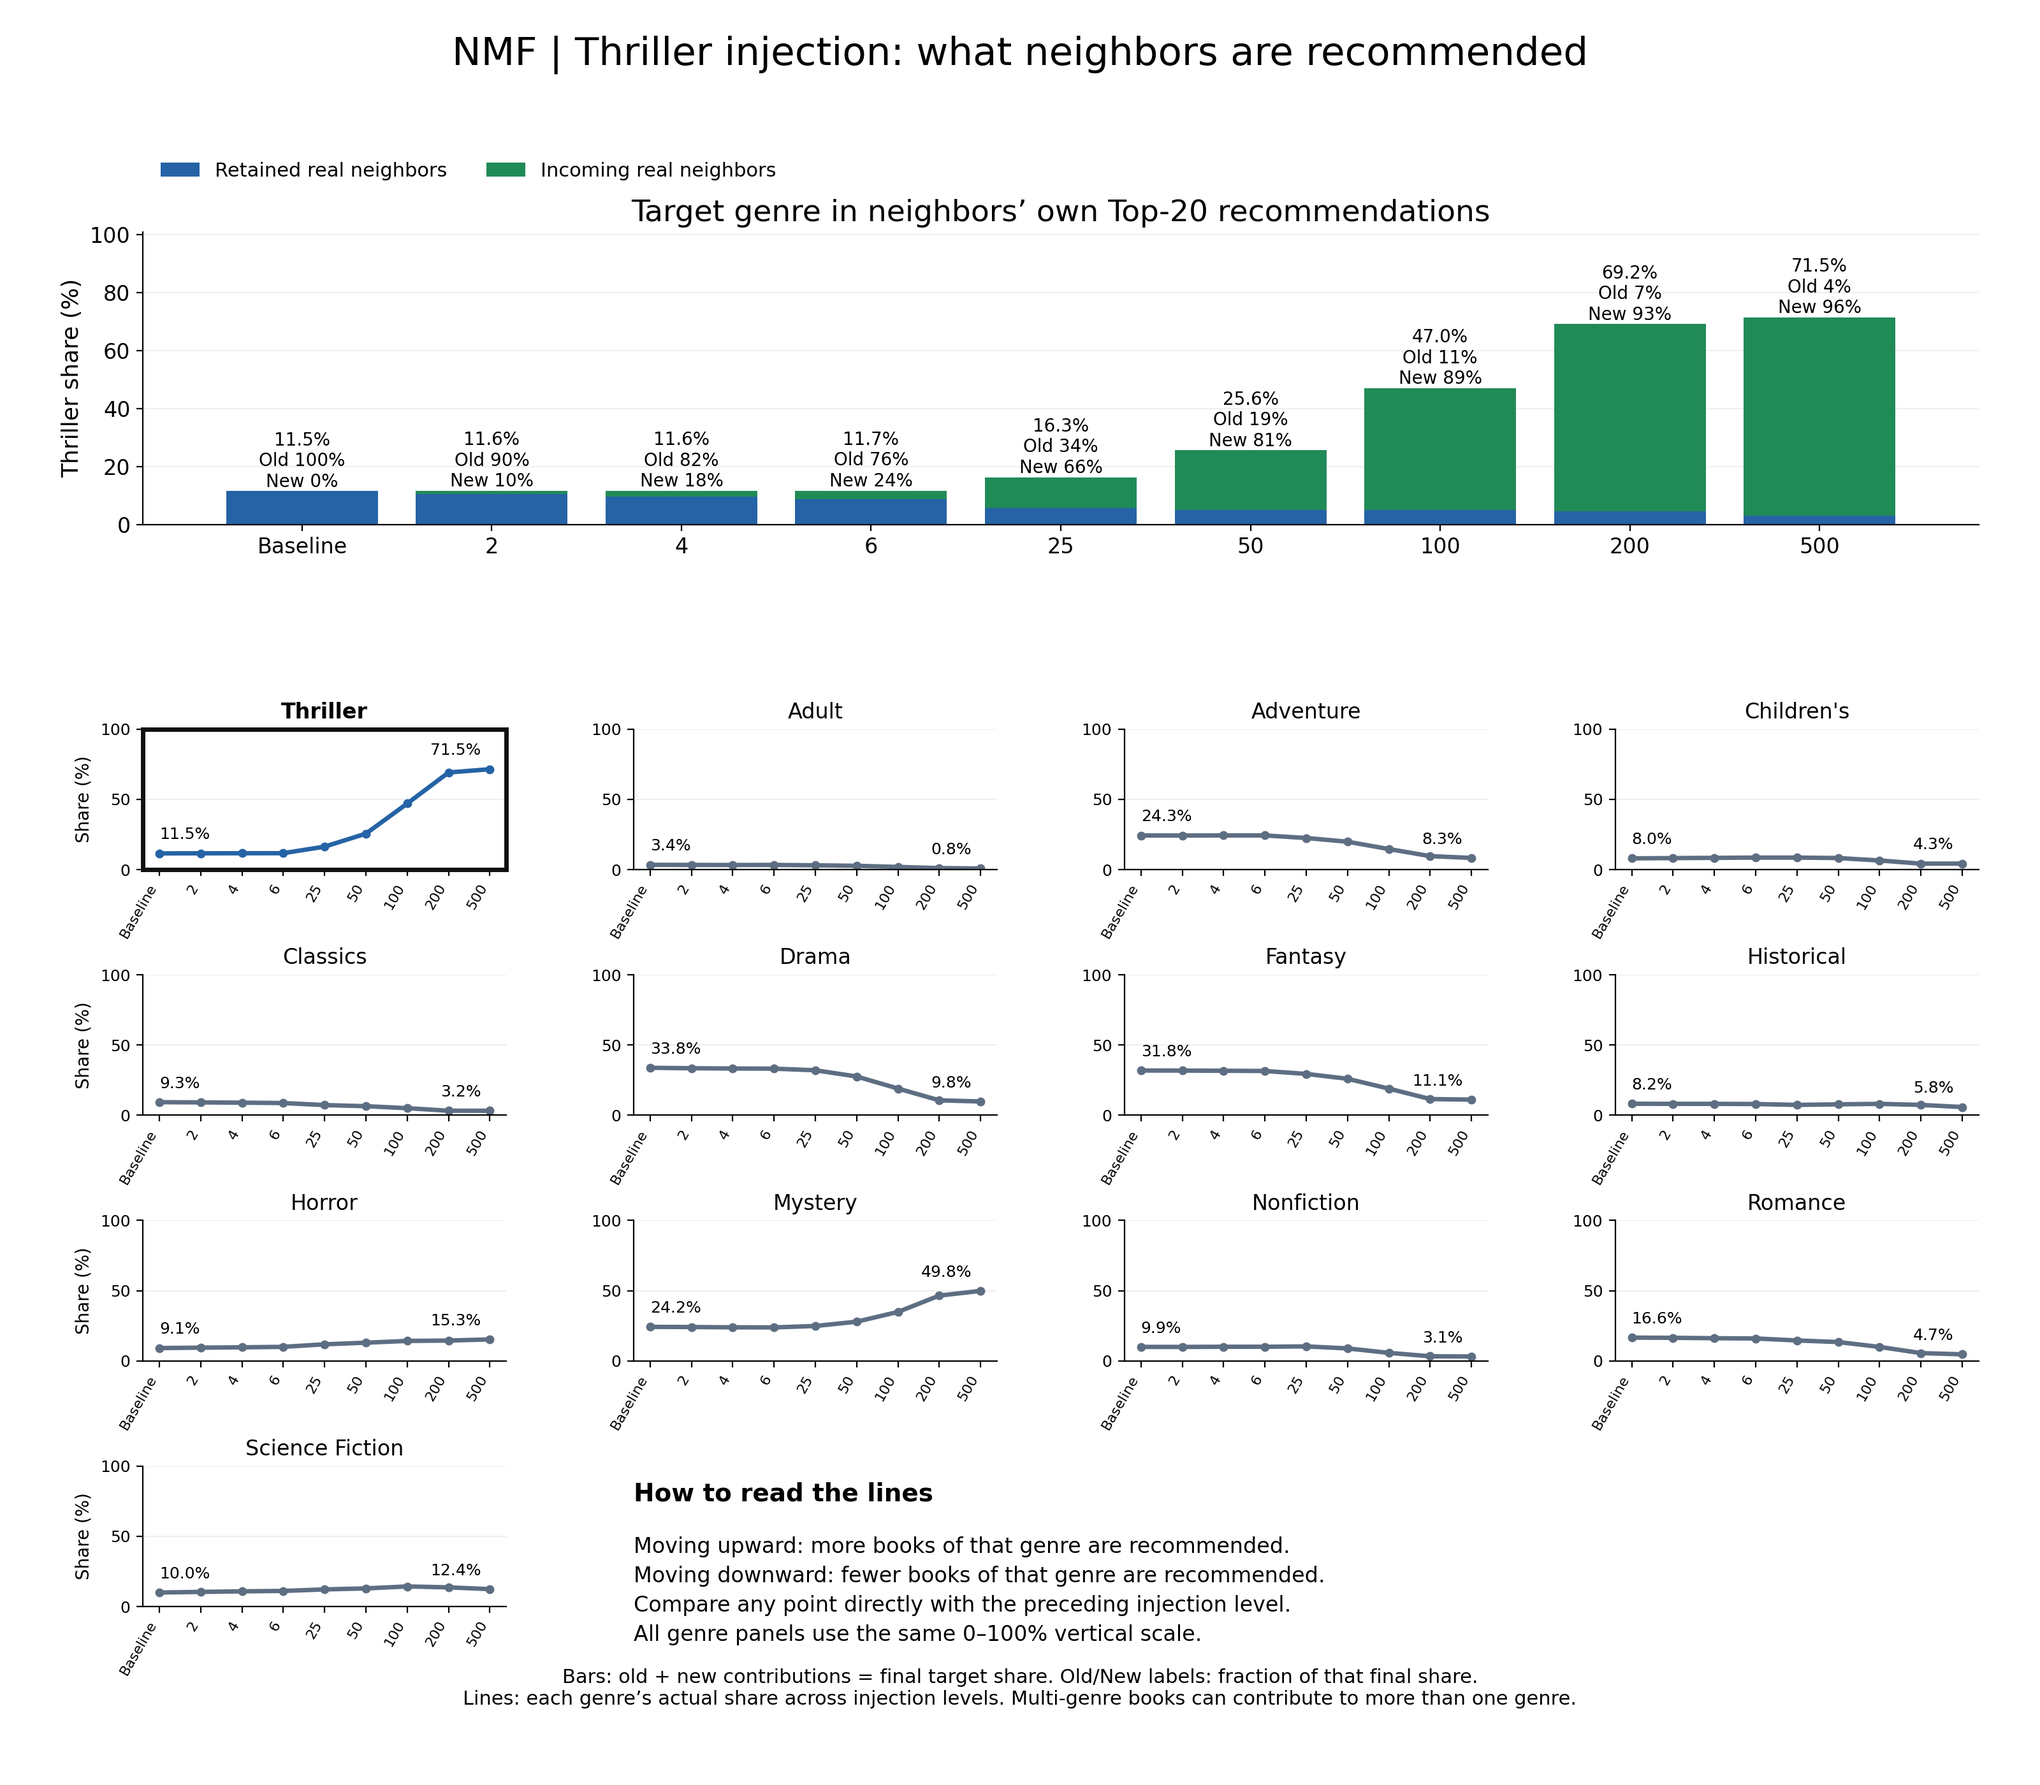
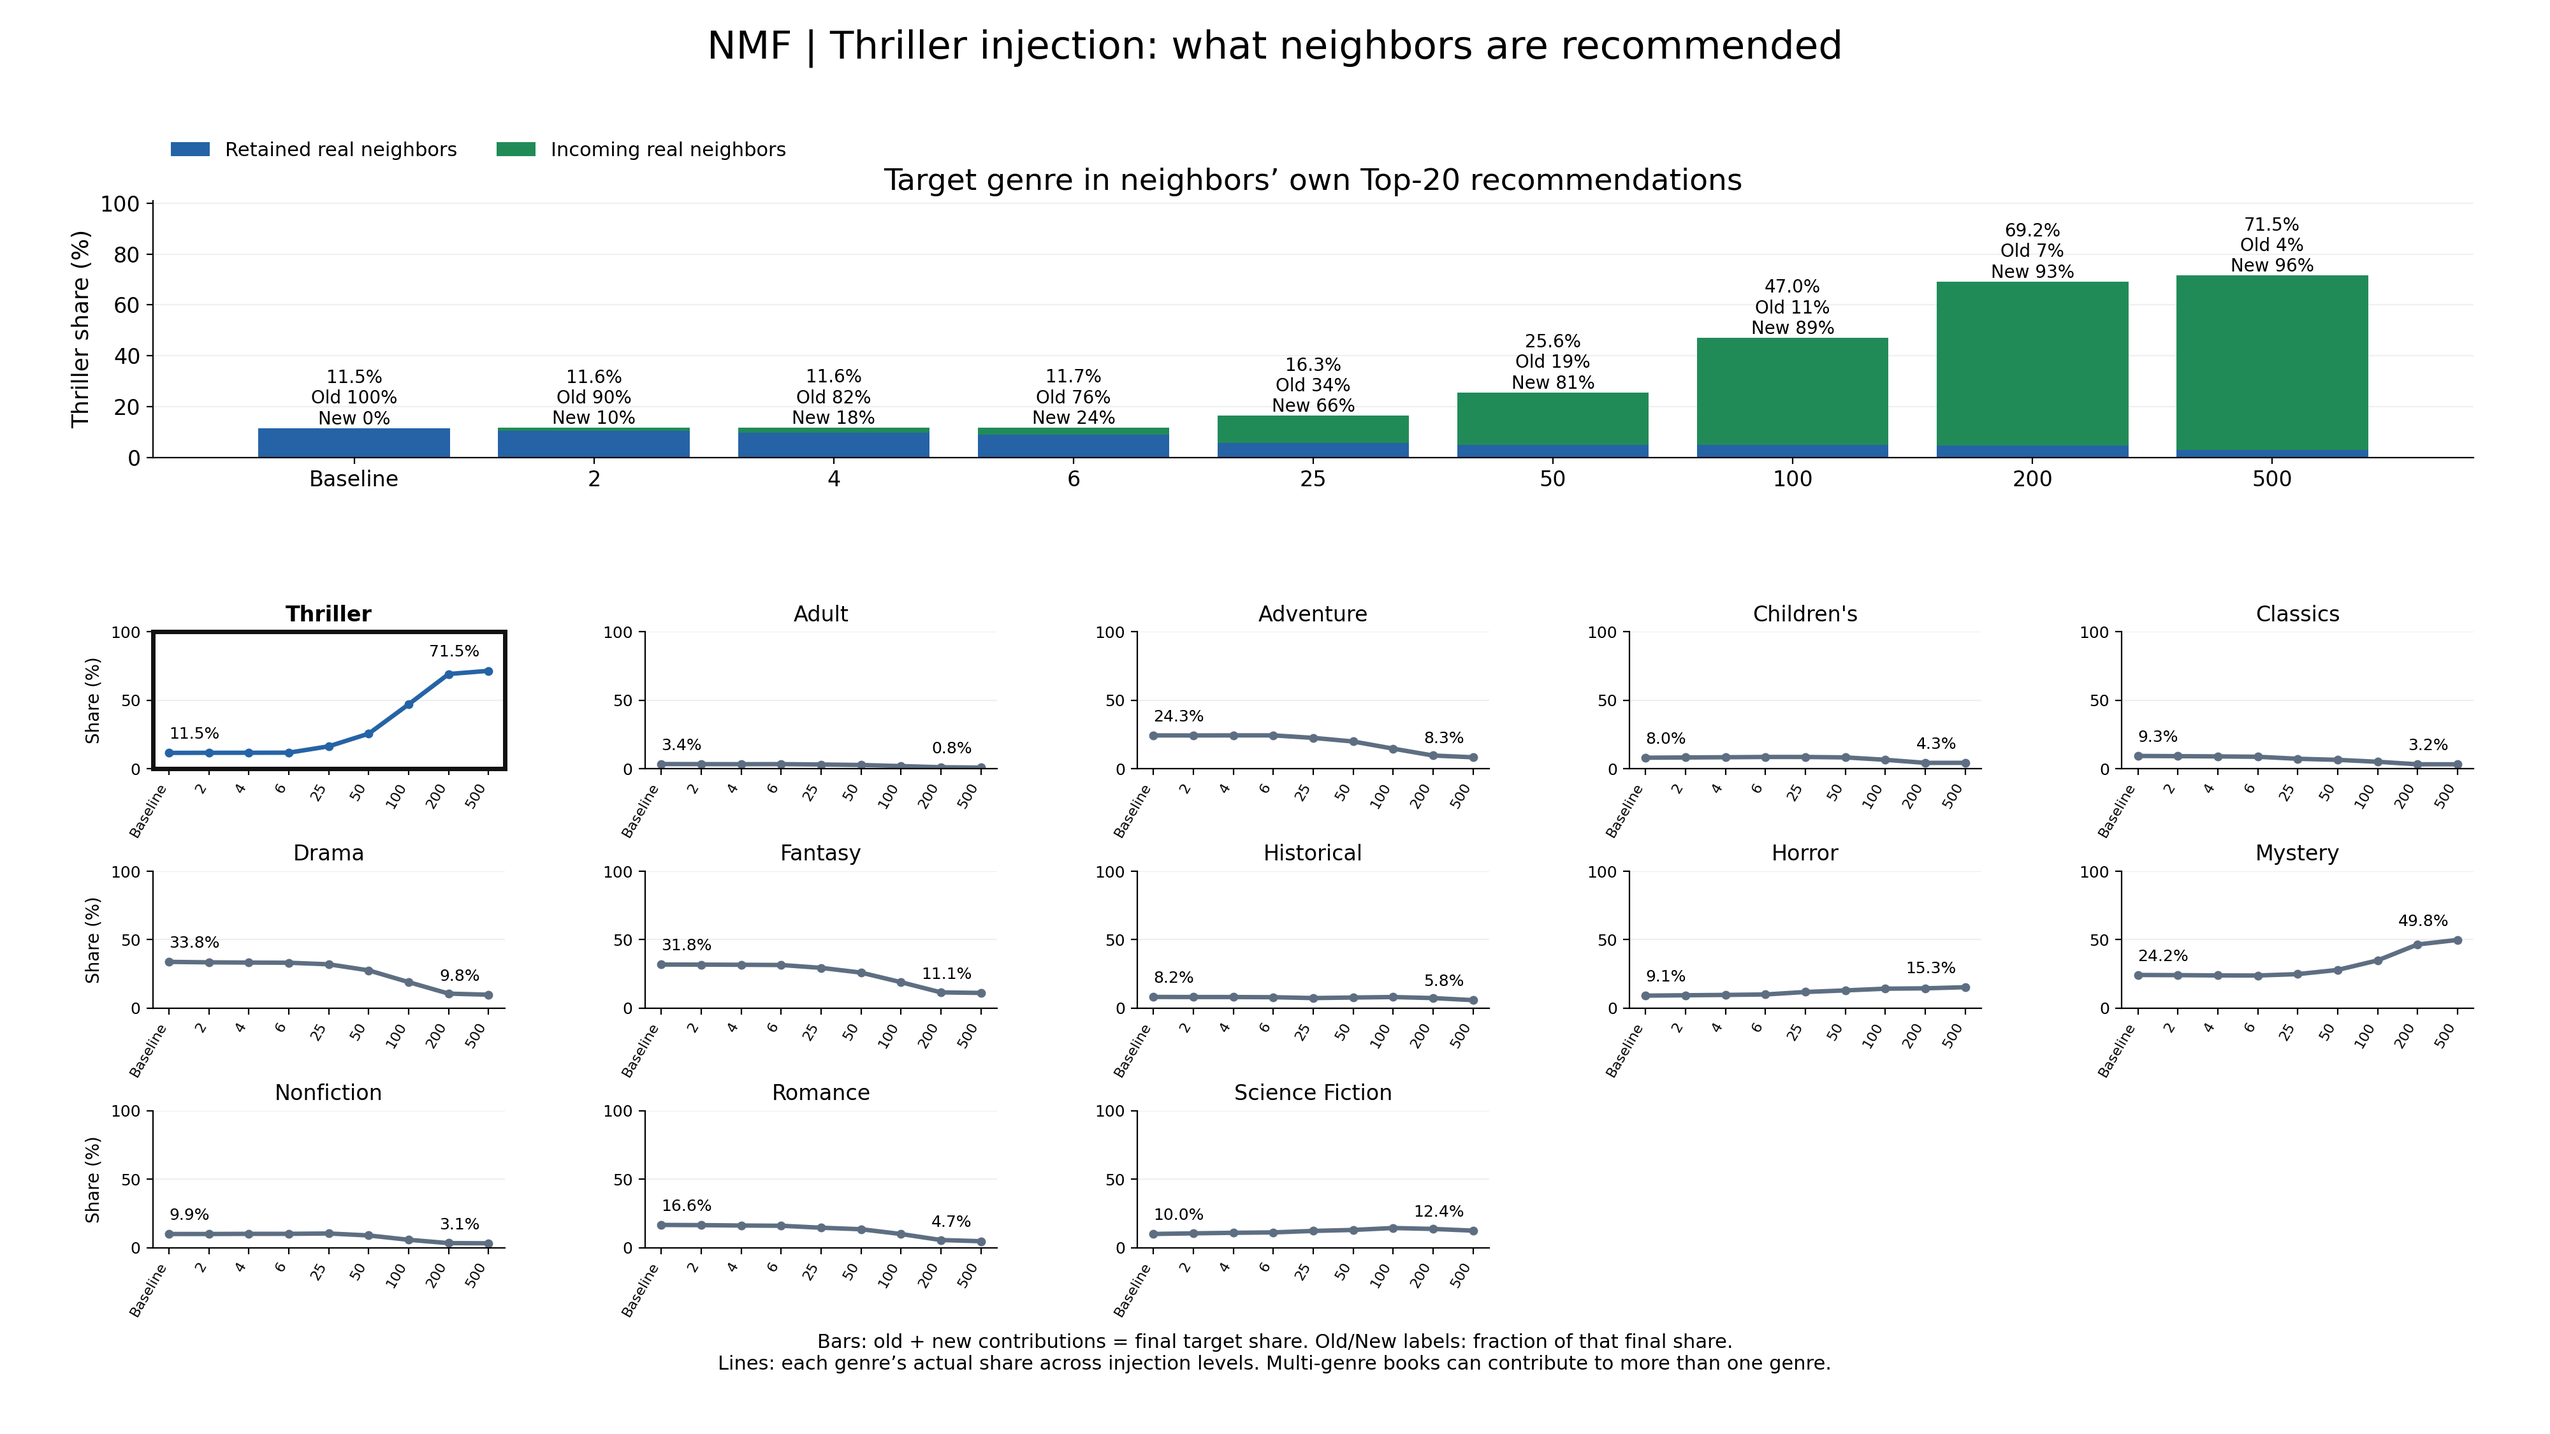
Create separate widescreen Thriller figures without reading guide

diff --git a/Book/current/PerturbRec/svd_nmf/layer2/notebook/build_final_layer2_figures.py b/Book/current/PerturbRec/svd_nmf/layer2/notebook/build_final_layer2_figures.py
@@ -7,7 +7,7 @@ matplotlib.use('Agg')
 import matplotlib.pyplot as plt
 from matplotlib.patches import Rectangle
 
-p=argparse.ArgumentParser();p.add_argument('--root',type=Path,required=True);a=p.parse_args()
+p=argparse.ArgumentParser();p.add_argument('--root',type=Path,required=True);p.add_argument('--genres',nargs='+',default=['Drama','Thriller']);a=p.parse_args()
 r=a.root
 identity=pd.read_csv(r/'tables/controlled/genre_summary.csv')
 taste=pd.read_csv(r/'tables/neighborhood_taste/genre_table_old_new.csv')
@@ -20,7 +20,7 @@ color_limit=max(1.0,float(np.ceil(color_limit/5)*5))
 blue='#2563A6';green='#218B58';orange='#D97732'
 plt.rcParams.update({'font.family':'DejaVu Sans','font.size':12,'axes.titlesize':17,'axes.labelsize':13,'savefig.dpi':200,'axes.spines.top':False,'axes.spines.right':False})
 for model in ['nmf','svd']:
- for target in ['Drama','Thriller']:
+ for target in a.genres:
   out=r/'result/final_results'/model.upper()/target;out.mkdir(parents=True,exist_ok=True)
   d=identity[(identity.model==model)&(identity.injected_genre==target)&(identity.metric=='cosine')&(identity.genre==target)&(identity.n_fake<=500)].sort_values('n_fake')
   doses=[0]+d.n_fake.astype(int).tolist();turn=np.r_[0,d.mean_turnover.to_numpy()]*100
@@ -40,7 +40,7 @@ for model in ['nmf','svd']:
   z=t[t.genre==target].set_index('n_fake').loc[doses]
   assert np.allclose(z.old_contribution_pp+z.new_contribution_pp,z.total_percent)
   assert np.allclose(z.neighbor_turnover_percent.to_numpy(),turn,atol=.01)
-  fig=plt.figure(figsize=(16,14));gs=fig.add_gridspec(2,1,height_ratios=[1,3],hspace=.35)
+  fig=plt.figure(figsize=(20,11.25));gs=fig.add_gridspec(2,1,height_ratios=[1,2.4],hspace=.4)
   ax=fig.add_subplot(gs[0]);old=z.old_contribution_pp.to_numpy();new=z.new_contribution_pp.to_numpy();total=z.total_percent.to_numpy()
   ax.bar(x,old,color=blue,label='Retained real neighbors');ax.bar(x,new,bottom=old,color=green,label='Incoming real neighbors')
   for xx,y,o,n in zip(x,total,z.old_share_of_total_percent,z.new_share_of_total_percent):
@@ -48,26 +48,23 @@ for model in ['nmf','svd']:
   ax.set_ylim(0,min(115,max(total)*1.3+8));ax.set_xticks(x,labels);ax.set_ylabel(f'{target} share (%)');ax.set_title('Target genre in neighbors’ own Top-20 recommendations');ax.legend(loc='upper left',bbox_to_anchor=(0,1.3),ncol=2,frameon=False,fontsize=11);ax.grid(axis='y',alpha=.18);ax.set_axisbelow(True)
   matrix=t.pivot(index='genre',columns='n_fake',values='total_percent').loc[:,doses]
   order=[target]+[g for g in matrix.index if g!=target];matrix=matrix.loc[order]
-  mini=gs[1].subgridspec(4,4,hspace=.75,wspace=.35)
+  mini=gs[1].subgridspec(3,5,hspace=.75,wspace=.4)
   for k,g in enumerate(order):
-   ax2=fig.add_subplot(mini[k//4,k%4]);v=matrix.loc[g].to_numpy()
+   ax2=fig.add_subplot(mini[k//5,k%5]);v=matrix.loc[g].to_numpy()
    # Equal axes across genres/models; dose levels are categorical and explicitly labeled.
    ax2.plot(x,v,color=blue if g==target else '#5E6E82',linewidth=2.5,marker='o',markersize=4)
    ax2.set_title(g,fontweight='bold' if g==target else 'normal',fontsize=12)
    ax2.set_xticks(x,labels,rotation=60,ha='right',fontsize=8)
    ax2.set_ylim(0,100);ax2.set_yticks([0,50,100]);ax2.tick_params(axis='y',labelsize=9)
    ax2.grid(axis='y',alpha=.2);ax2.set_axisbelow(True)
-   if k%4==0:ax2.set_ylabel('Share (%)',fontsize=10)
+   if k%5==0:ax2.set_ylabel('Share (%)',fontsize=10)
    if g==target:
     for spine in ax2.spines.values():spine.set_visible(True);spine.set_color('#111111');spine.set_linewidth(2.5)
    ax2.annotate(f'{v[0]:.1f}%',(x[0],v[0]),xytext=(0,8),textcoords='offset points',fontsize=9)
    ax2.annotate(f'{v[-1]:.1f}%',(x[-1],v[-1]),xytext=(-5,8),ha='right',textcoords='offset points',fontsize=9)
-  noteax=fig.add_subplot(mini[3,1:]);noteax.axis('off')
-  noteax.text(0,.75,'How to read the lines',fontweight='bold',fontsize=14)
-  noteax.text(0,.5,'Moving upward: more books of that genre are recommended.\nMoving downward: fewer books of that genre are recommended.\nCompare any point directly with the preceding injection level.\nAll genre panels use the same 0–100% vertical scale.',fontsize=12,va='top',linespacing=1.5)
   fig.suptitle(f'{model.upper()} | {target} injection: what neighbors are recommended',fontsize=22,y=.98)
   fig.text(.5,.045,'Bars: old + new contributions = final target share. Old/New labels: fraction of that final share.\nLines: each genre’s actual share across injection levels. Multi-genre books can contribute to more than one genre.',ha='center',fontsize=11)
-  fig.subplots_adjust(top=.87,bottom=.1,left=.07,right=.97)
+  fig.subplots_adjust(top=.86,bottom=.13,left=.06,right=.97)
   fig.savefig(out/'neighborhood_recommendations_up_to_500.png',facecolor='white');plt.close(fig)
   source=r/'result'/model.upper()/'UMAP'/target/'umap_before_after_500.png'
   assert source.is_file(),source
